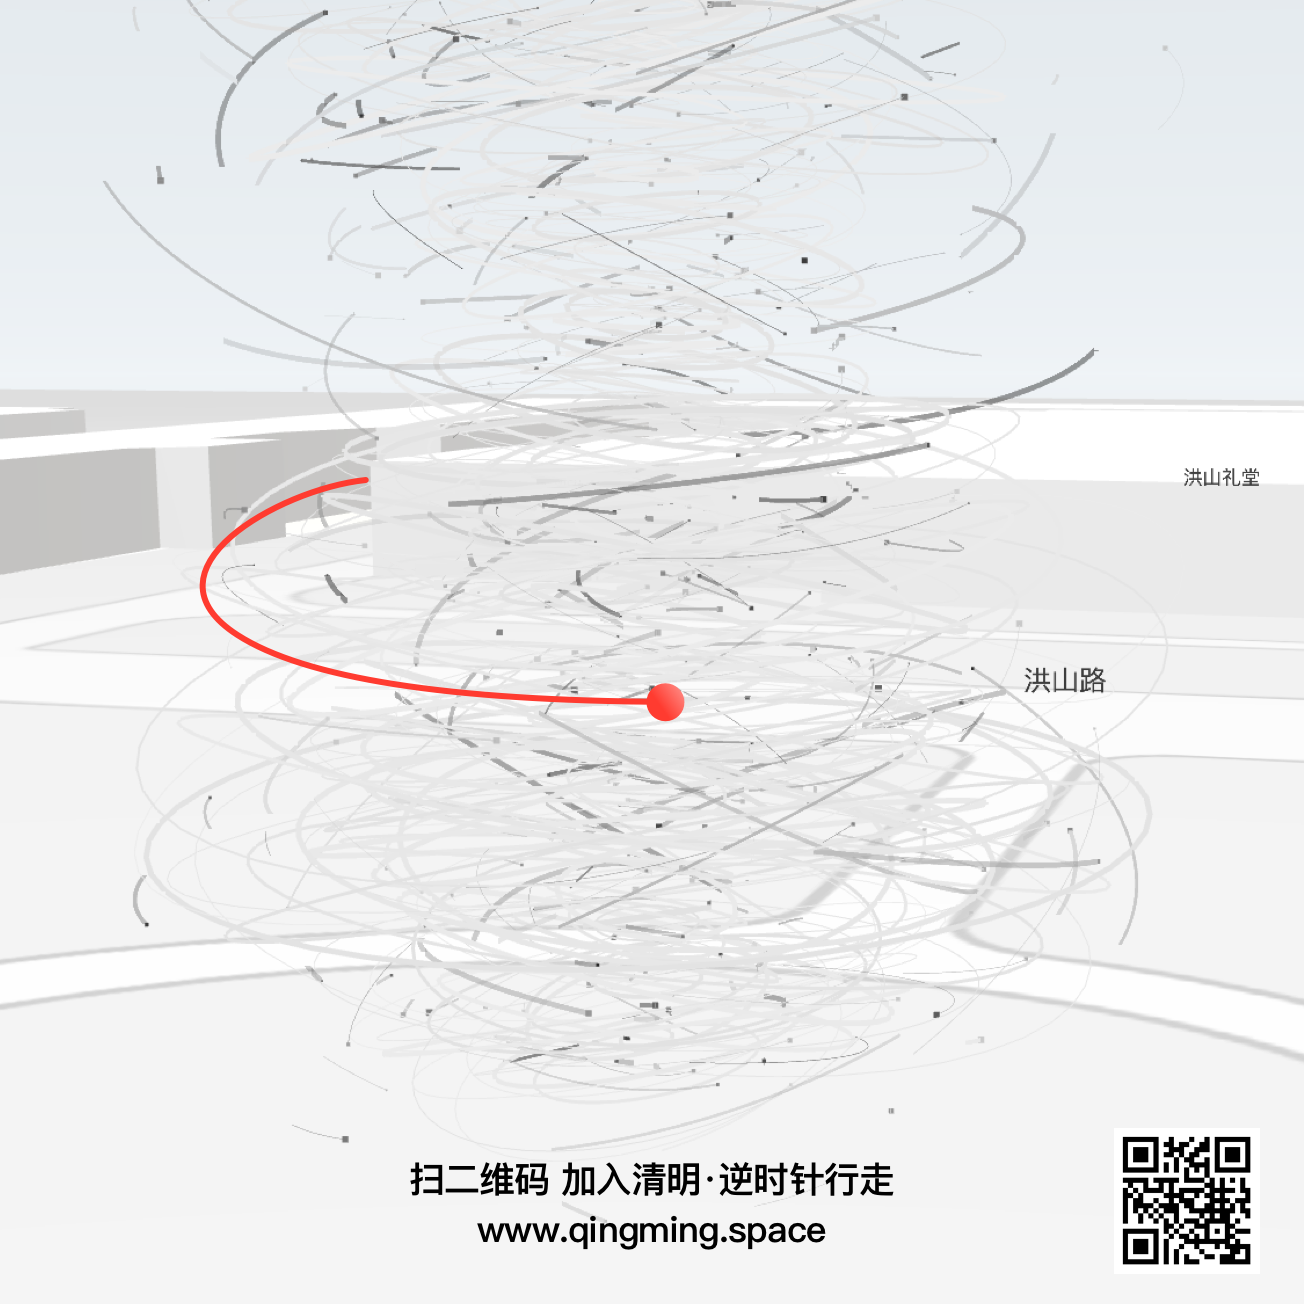
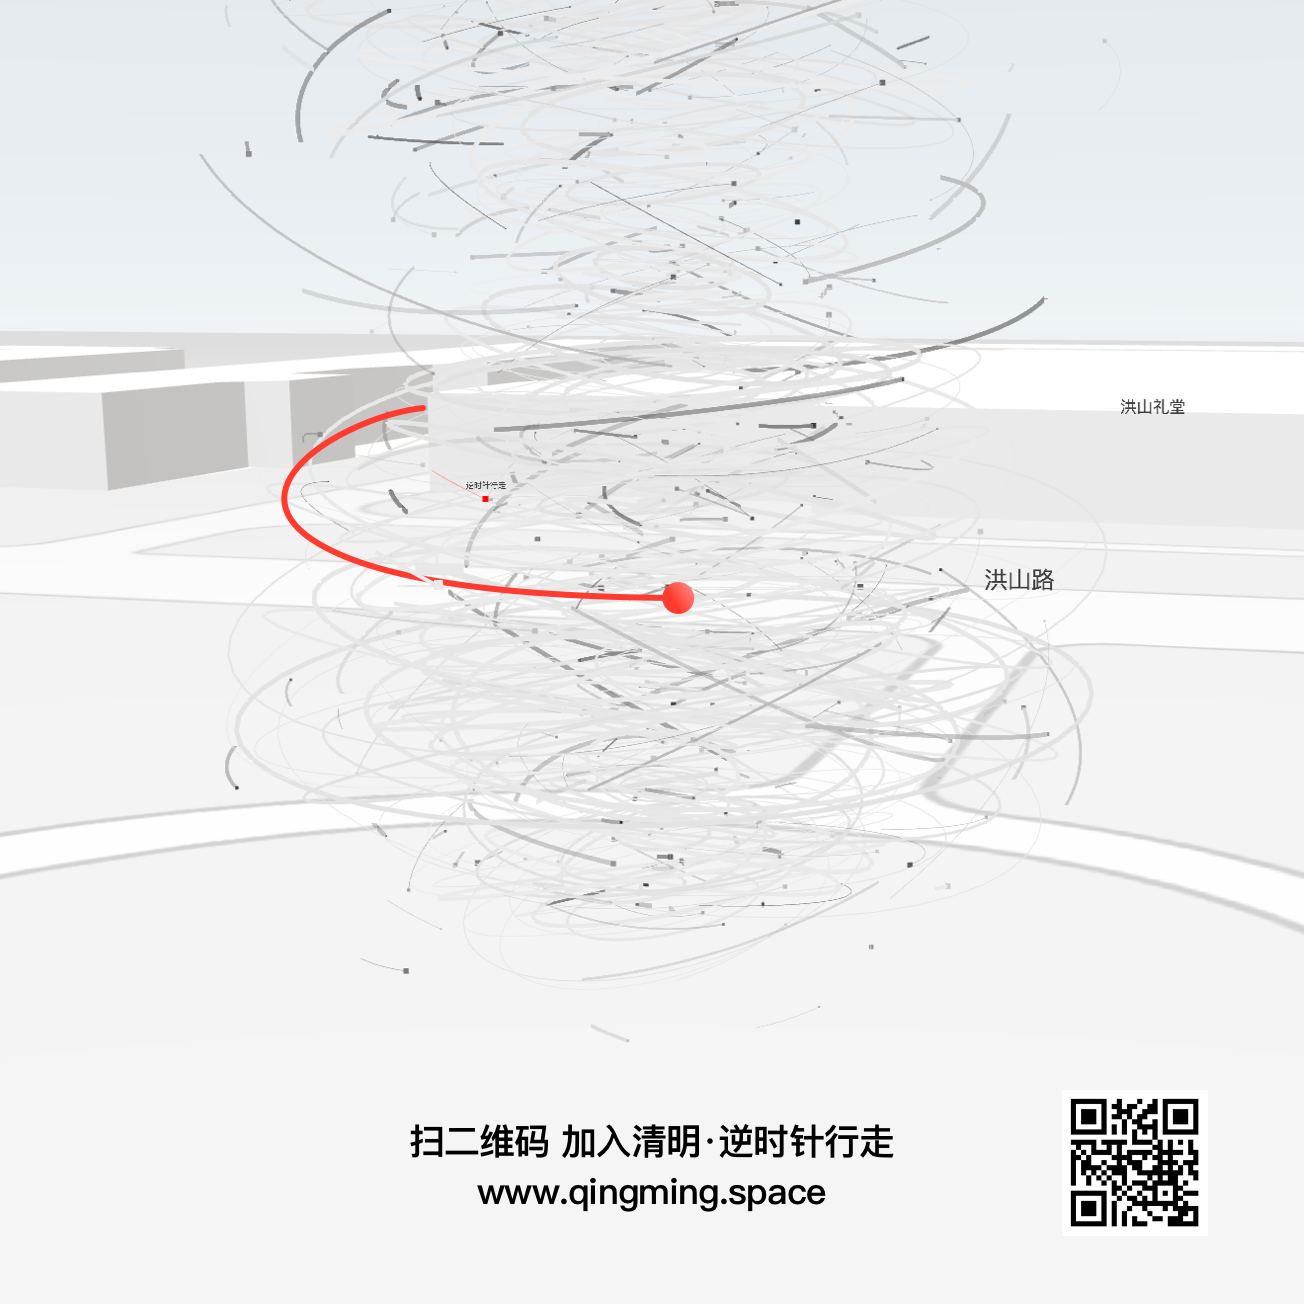
Some fix

diff --git a/src/home.html b/src/home.html
@@ -56,10 +56,10 @@
 						<h1>清明 </h1>
 					</div>
 					<div class="intro hidden">
-						<p>截至2020年4月4日，官方的统计数据显示，中国大陆范围内新型冠状病毒感染肺炎已确诊82647例，累积死亡病例3322例。但在“统计”之外，究竟还有多少未被确诊或间接因新冠肺炎去世的人，我们无从得知。春天的到来，气温回暖，疫情的威胁似乎渐渐退出我们的生活，可围绕着疫情的很多真相疑团还未被解开，逝去的生命也不会再回来，幸存的人以及他们失去亲人的痛楚却很难平复。</p>
+						<p>截至2020年4月4日，官方的统计数据显示，中国大陆范围内新型冠状病毒感染肺炎已确诊82647例，累积死亡病例3322例。但在“统计”之外，究竟还有多少未被确诊或间接因新冠肺炎去世的人，我们无从得知。春天的到来，气温回暖，疫情的威胁似乎渐渐退出我们的生活，可逝去的生命不会再回来，失去亲人的痛楚很难平复。</p>
 						<p>今天是清明节，本该是我们祭奠死者的日子。可是因为疫情，大部分人都无法为亲人现场祭扫。“清明·逆时针行走”线上祭奠活动，会带你到武汉洪山礼堂前——这里曾是2020年1月召开湖北两会的地方。</p>
 						<p>你可以在这里留下自己的名字或想说的话，祭奠逝去的生命。每个参与祭奠的人都会留下一条属于自己的行走轨迹，而这些轨迹汇集会化成一个线上纪念碑；不久之后，它将会永久矗立在各大地图网站的武汉洪山礼堂前。</p>
-						<p>那些痛苦和眼泪、问责和反思，都不该被轻易遗忘，更不该被任意涂改和抹掉。</p>
+						<p>那些痛苦和眼泪、问责和反思，都不该被轻易遗忘，更不该被涂改和抹掉。</p>
 					</div>
 				<div id="loading"> 0% </div>
 				<div class="controls">

diff --git a/src/js/QingMing.js b/src/js/QingMing.js
@@ -197,17 +197,17 @@ function mouseMove(event){
 
 function addBillboards(){
   let roadY = -450;
-  addBillboard(0, 500, -15000, '洪山礼堂');
+  addBillboard(0, 200, -15000, '洪山礼堂');
   addBillboard(0, roadY, -8000, '洪山路');
-  addBillboard(-13000, roadY, 5000, '东三路');
-  addBillboard(8500, roadY, 2000, '东四路');
-  addBillboard(-6200, 500, 8200, '武汉市公安局警务');
-  addBillboard(-6200, 400, 8200, '综合服务站');
-  addBillboard(11000, 500, 1000, '双湖派出所');
+  addBillboard(-13000, roadY, 0, '东三路');
+  addBillboard(8300, roadY, 2000, '东四路');
+  addBillboard(-6300, 300, 8200, '武汉市公安局警务');
+  addBillboard(-6550, 100, 8200, '综合服务站');
+  addBillboard(11000, 1500, 1500, '双湖派出所');
   addBillboard(12000, 500, 11000, '湖北省科学技术');
-  addBillboard(12000, 450, 11000, '厅政务服务大厅');
-  addBillboard(20000, 500, -14000, '中国共产党湖北省');
-  addBillboard(20000, 450, -14000, '纪检委');
+  addBillboard(12000, 300, 11000, '厅政务服务大厅');
+  addBillboard(185000, 300, -14000, '中国共产党湖');
+  addBillboard(185000, 100, -14000, '北省纪检委');
 }
 
 function addBillboard(p0, p1, p2, name) {

diff --git a/src/assets/css/main.css b/src/assets/css/main.css
@@ -44,8 +44,16 @@ h1 {
   letter-spacing: 0;
 }
 
+@media only screen and (max-width: 450px) {
+  h1 {
+    font-size: 32px;
+    margin-block-start: 0.47em;
+    margin-block-end: 0.47em;
+  }
+}
+
 .billboard {
-  width: 300px;
+  width: 450px;
   height: 200px;
   /*box-shadow: 0px 0px 2px rgba(255,255,255,0.5);*/
   /*border: 1px solid rgba(255,255,255,0.95);*/
@@ -435,7 +443,7 @@ h1 {
 
 @media only screen and (max-width: 450px) {
   .welcome-card {
-    padding: 42px 0 16px;
+    padding: 24px 0 16px;
   }
 
   .welcome-card .intro {
@@ -443,7 +451,7 @@ h1 {
   }
 
   .welcome-card .controls {
-    padding: 24px;
+    padding: 8px;
   }
 
   .name-input,
